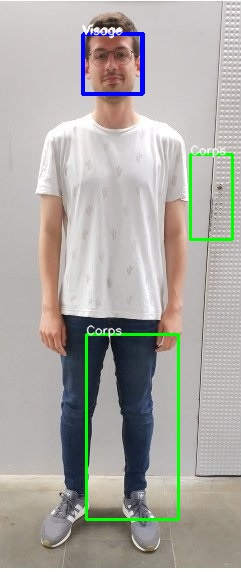
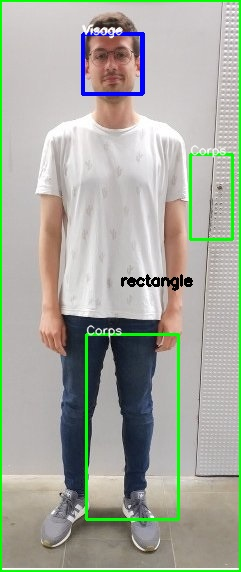
Revamp OK

Changed region(s): [[0.0, 0.0, 1.0, 1.0], [0.4938, 0.4755, 0.8133, 0.5052]]

diff --git a/image_analyzer.py b/image_analyzer.py
@@ -1,9 +1,13 @@
 import cv2
 import face_checker
+import imutils
 
 #Classe qui permet l'analyse de l'image, c'est plus pratique d'en faire
 #une classe pour sauvegarder les choix de l'utilisateur vis a vis des
 #options d'analyse
+import shape_checker
+
+
 class ImageAnalyzer:
 
     def __init__(self, face, body, shape, color, text):
@@ -15,8 +19,9 @@ class ImageAnalyzer:
 
     def analyzeimage(self, image):
         gray = cv2.cvtColor(image, cv2.COLOR_BGR2GRAY)
-        faces_tab = face_checker.cycle_face(gray)
         if self.face:
+            print("face")
+            faces_tab = face_checker.cycle_face(gray)
             for faces_pattern in faces_tab:
                 for (x, y, w, h) in faces_pattern:
                     cv2.rectangle(image, (x, y), ((x + w), (y + h)), (255, 0, 0), 2)
@@ -30,4 +35,33 @@ class ImageAnalyzer:
                 cv2.rectangle(image, (x, y), ((x + w), (y + h)), (0, 255, 0), 2)
                 # On ecrit ce qui est détecté
                 cv2.putText(image, "Corps", (x, y), cv2.FONT_HERSHEY_SIMPLEX, 0.4, (255, 255, 255), 1, cv2.LINE_AA)
+        if self.shape:
+            ratio = image.shape[0] / float(image.shape[0])
+            # On passe en gris pour alléger le calcul, et on floute pour éviter
+            # de traiter le "bruit" présent sur l'image
+            # puis on binarise pour révéler les formes
+            blurred = cv2.GaussianBlur(gray, (5, 5), 0)
+            thresh = cv2.threshold(blurred, 60, 255, cv2.THRESH_BINARY)[1]
+            # find contours in the thresholded image and initialize the
+            # shape detector
+            cnts = cv2.findContours(thresh.copy(), cv2.RETR_EXTERNAL,
+                                    cv2.CHAIN_APPROX_SIMPLE)
+            cnts = imutils.grab_contours(cnts)
+            # loop over the contours
+            for c in cnts:
+                # compute the center of the contour, then detect the name of the
+                # shape using only the contour
+                M = cv2.moments(c)
+                cX = int((M["m10"] / M["m00"]) * ratio)
+                cY = int((M["m01"] / M["m00"]) * ratio)
+                shape = shape_checker.detect(c)
+                # multiply the contour (x, y)-coordinates by the resize ratio,
+                # then draw the contours and the name of the shape on the image
+                c = c.astype("float")
+                c *= ratio
+                c = c.astype("int")
+                cv2.drawContours(image, [c], -1, (0, 255, 0), 2)
+                cv2.putText(image, shape, (cX, cY), cv2.FONT_HERSHEY_SIMPLEX,
+                            0.5, (0, 0, 0), 2)
+
         return image

diff --git a/main.py b/main.py
@@ -9,18 +9,18 @@ file_column = [
     [
         sg.Text("Document à analyser"),
         sg.In(size=(25, 1), enable_events=True, key="-FOLDER-"),
-        sg.FileBrowse(key="-IN-"),
+        sg.FileBrowse(key="IN"),
         sg.Button("OK"),
     ]
 ]
 #Partie sélection d'analyse
 analyse_column = [
     [
-        sg.Checkbox('Analyser visages', default=False, key="-FACE-"),
-        sg.Checkbox('Analyser corps', default=False, key="-BODY-"),
-        sg.Checkbox('Analyser formes', default=False, key="-SHAPE-"),
-        sg.Checkbox('Analyser couleurs', default=False, key="-COLOR-"),
-        sg.Checkbox('Analyser textes', default=False, key="-TEXT-"),
+        sg.Checkbox('Analyser visages', default=False, key="FACE"),
+        sg.Checkbox('Analyser corps', default=False, key="BODY"),
+        sg.Checkbox('Analyser formes', default=False, key="SHAPE"),
+        sg.Checkbox('Analyser couleurs', default=False, key="COLOR"),
+        sg.Checkbox('Analyser textes', default=False, key="TEXT"),
     ]
 ]
 
@@ -44,22 +44,12 @@ while True:
     event, values = window.read()
     if event == "Exit" or event == sg.WIN_CLOSED:
         break
-    if event == "FACE":
-        face = values["-FACE-"]
-    if event == "BODY":
-        body = values["-BODY-"]
-    if event == "SHAPE":
-        shape = values["-SHAPE-"]
-    if event == "COLOR":
-        color = values["-COLOR-"]
-    if event == "TEXT":
-        text = values["-TEXT-"]
     if event == "OK":
         #On récupère le path dans file
-        file = (values["-IN-"])
+        file = (values["IN"])
         #On créer les outils
         upload_checker = upload.UploadChecker()
-        imageAnalyzer = image_analyzer.ImageAnalyzer(face, body, shape, color, text)
+        imageAnalyzer = image_analyzer.ImageAnalyzer(values["FACE"], values["BODY"], values["SHAPE"], values["COLOR"], values["TEXT"])
         #On vérifie d'abord que le format du fichier est exploitable
         if not upload_checker.check_format(file):
             print("Le fichier n'est pas dans un format reconnu.")

diff --git a/shape_checker.py b/shape_checker.py
@@ -1,0 +1,30 @@
+# import the necessary packages
+import argparse
+import cv2
+
+
+def detect(contour):
+	# On initialise la forme inconnue pour l'instant
+	shape = "*"
+	# On calcule d'abord le contour de la forme avant d'appliquer
+	# l'algorithme d'approximation de contour
+	# La forme est divisée en "vertices"
+	peri = cv2.arcLength(contour, True)
+	approx = cv2.approxPolyDP(contour, 0.04 * peri, True)
+	# 3 Vertices, c'est probablement un triangle
+	if len(approx) == 3:
+		shape = "triangle"
+	# 4 Vertices, c'est probablement un carré/rectangle
+	elif len(approx) == 4:
+		# On calcule l'aspect/ratio de la forme
+		# si c'est proche de 1, c'est un carré, sinon un rectangle
+		(x, y, w, h) = cv2.boundingRect(approx)
+		ar = w / float(h)
+		shape = "square" if ar >= 0.95 and ar <= 1.05 else "rectangle"
+	# 5 vertices, on part sur un pentagone
+	elif len(approx) == 5:
+		shape = "pentagon"
+	# Si on a plus de 5 vertices ou moins de 3 on part du principe que c'est un cercle
+	else:
+		shape = "circle"
+	return shape
